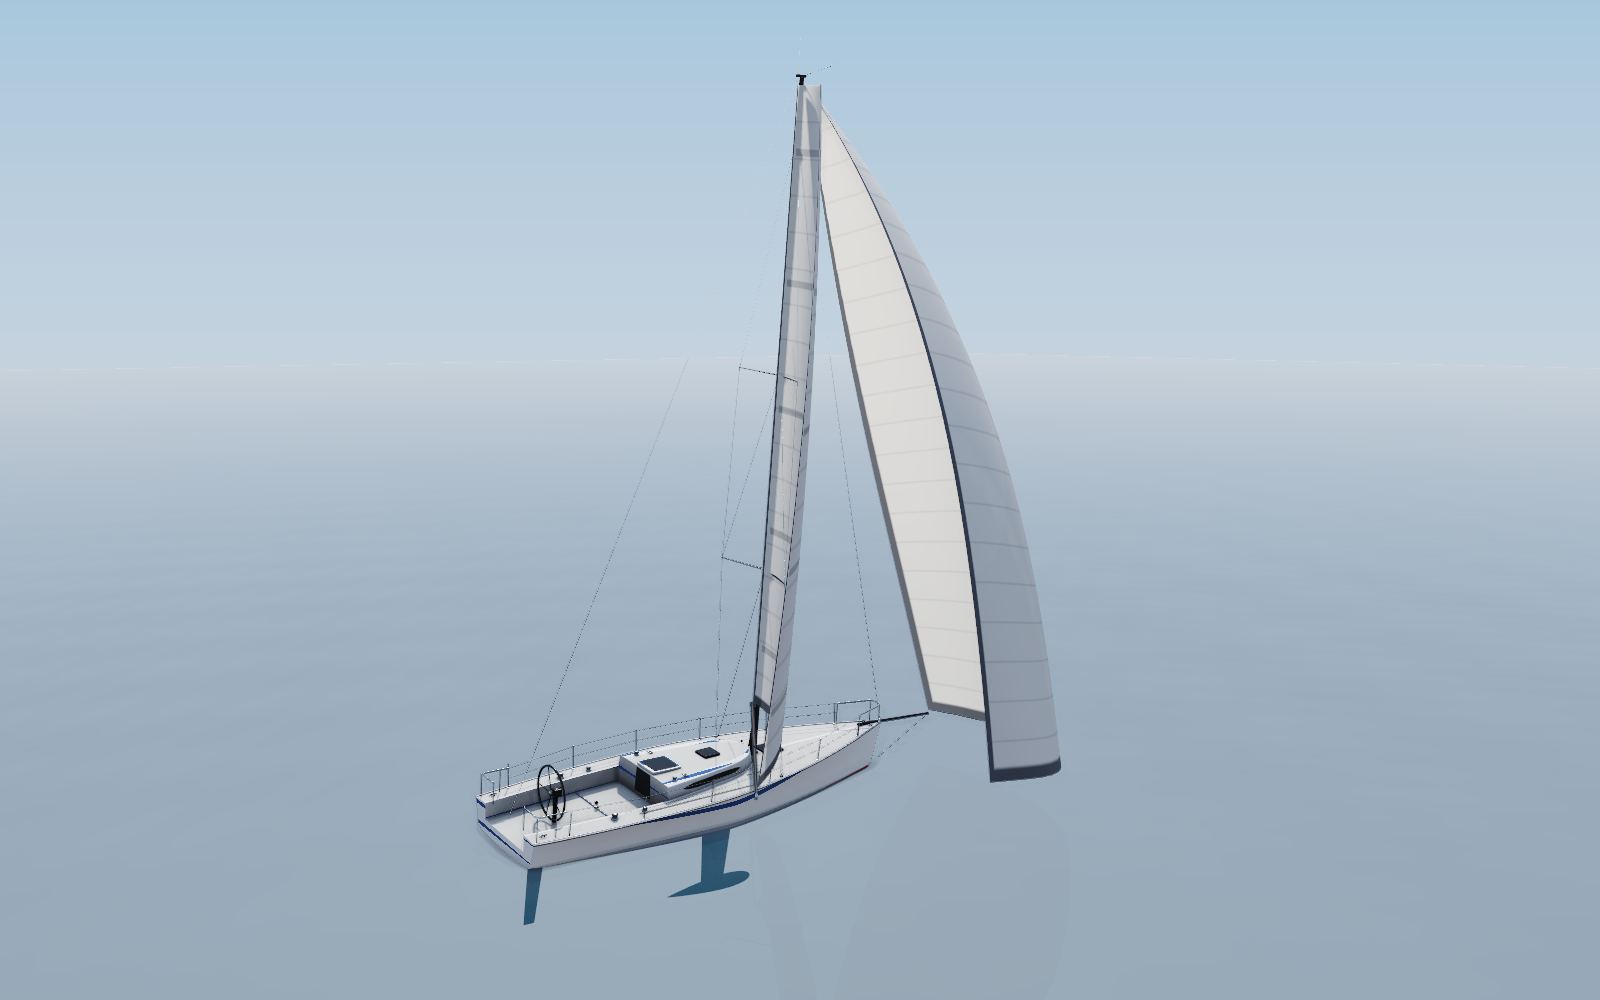
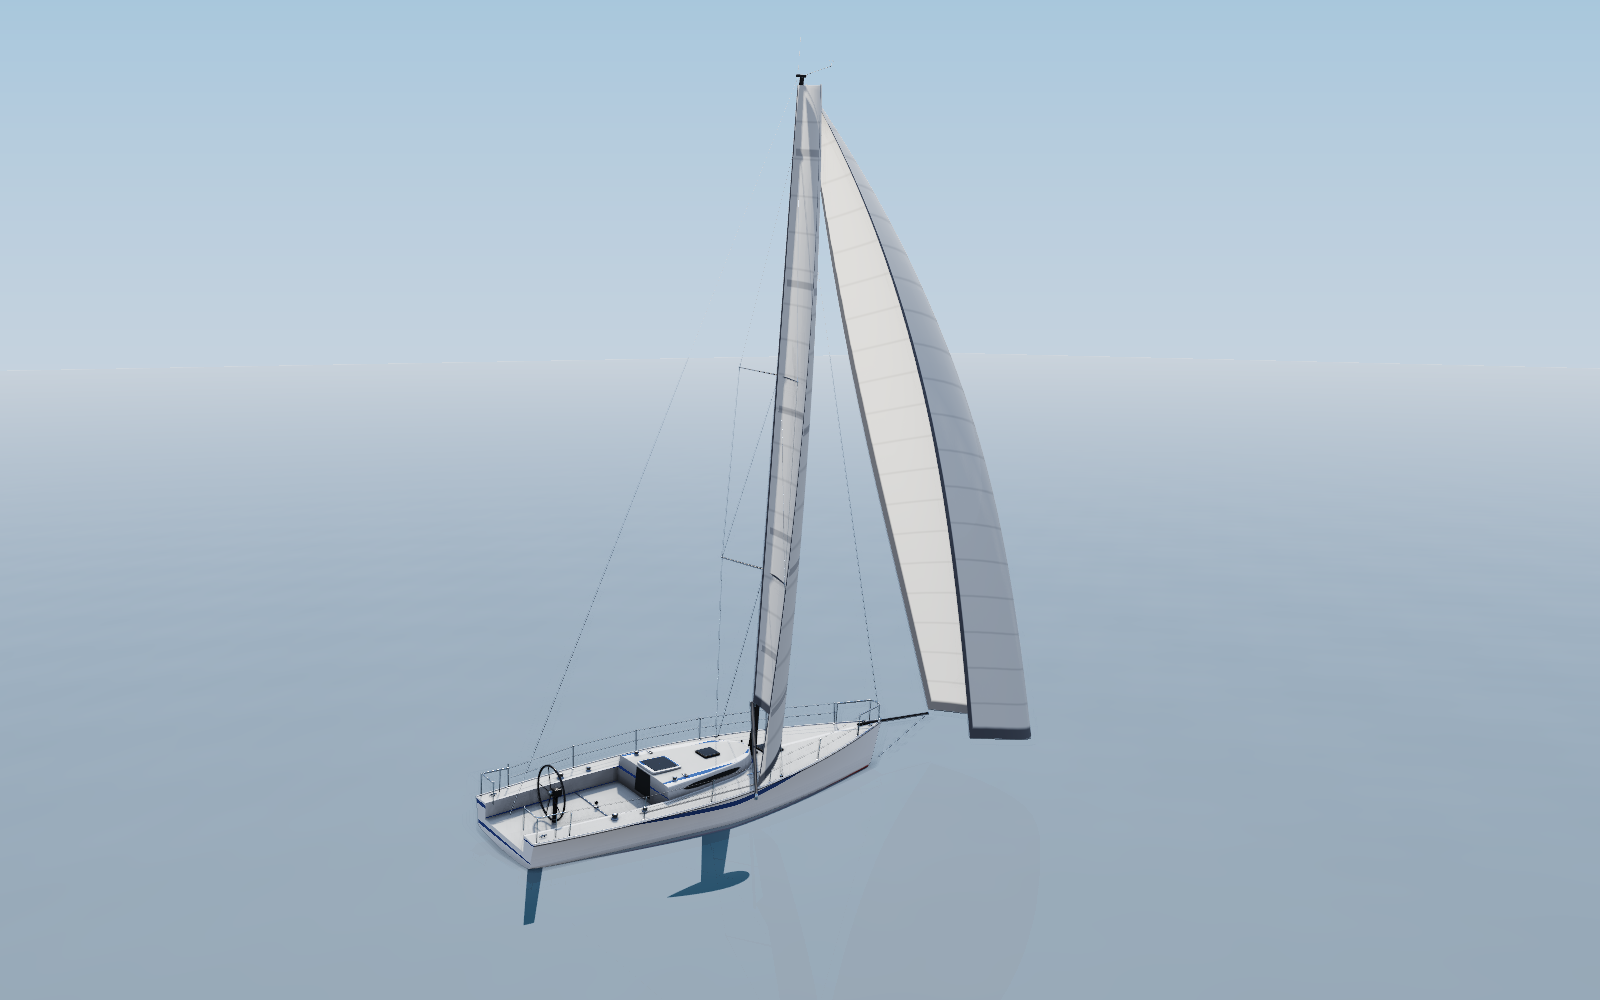
[feature] Boatgen: kites drawn from standard proportions, class areas follow
- code zero, asym and sym spinnaker planforms from the rig (data_format.md 3.5)
- rule area reported in the sidecar; build warns when the class area is off
- wm7 kite 43 m2, wm12 a2 126 m2, code0 81 m2, test_sym fixture 111 m2
- downwind previews regenerated

Changed region(s): [[0.5312, 0.155, 0.6875, 0.806], [0.5, 0.124, 0.5312, 0.155]]

diff --git a/tools/boatgen/boatgen/sails.py b/tools/boatgen/boatgen/sails.py
@@ -2,7 +2,9 @@
 
 Each sail is a Coons patch over its four edges (foot, leech, head, luff), sampled on a regular (chord x height)
 grid so the simulation can deform it at run time; corner indices and grid size go into the physics sidecar.
-Edge curvature (mainsail roach, spinnaker edge round) is sized so the flat outline area matches the class area.
+Mainsail roach and headsail leech round are sized so the flat outline area matches the class area; code zeros and
+spinnakers are drawn from the rig with standard proportions (docs/specs/data_format.md 3.5) and report their rule
+area instead.
 
 Two layers: the port-facing layer sits 1 mm to port, the starboard one 1 mm to starboard, each with its own
 outward normal. uv0 is metric (chord metres, height metres) for tiling cloth; uv1 is (chord fraction, 1 - height
@@ -74,6 +76,7 @@ class Sail:
     def __init__(self, name, P, corners):
         self.name, self.P, self.corners = name, P, corners  # P: (nv, nu, 3) in the centreline plane
         self.look_override = {}
+        self.measure = None        # flying sails: rule measurements (flying_measure)
 
     @property
     def area(self):
@@ -258,11 +261,41 @@ def _headsail(spec, cls, rig, deck):
     return Sail(spec["id"], make(b), {"tack": (0, 0), "clew": (0, nu - 1), "head": (nv - 1, 0)})
 
 
+# flying-sail planform (docs/specs/data_format.md 3.5): leech / luff, foot / luff, mid girth / foot, then the
+# drawing: foot round (fraction of the foot), the luff's share of the edge round, clew grid (cols, rows)
+FLYING = {
+    "spinnaker_asym": {"leech": 0.88, "foot": 0.56, "mid": 0.76, "foot_round": 0.08, "luff_share": 0.45, "grid": (16, 26)},
+    "spinnaker_sym": {"leech": 1.00, "foot": None, "mid": 0.95, "foot_round": 0.10, "luff_share": 0.50, "grid": (16, 26)},
+    "code_zero": {"leech": 0.90, "foot": 0.46, "mid": 0.56, "foot_round": 0.02, "luff_share": 0.20, "grid": (12, 24)},
+}
+SYM_FOOT_POLE = 1.75      # symmetric spinnaker foot / pole length
+SYM_FOOT_MAX = 0.60       # ... at most this share of the luff
+
+
+def _edge_len(C):
+    return float(np.sum(np.linalg.norm(np.diff(C, axis=0), axis=-1)))
+
+
+def _edge_mid(C):
+    """Point half way along a polyline edge."""
+    s = np.r_[0.0, np.cumsum(np.linalg.norm(np.diff(C, axis=0), axis=-1))]
+    return np.array([np.interp(0.5 * s[-1], s, C[:, k]) for k in range(3)])
+
+
+def flying_measure(P):
+    """Rule measurements of a flat code zero or spinnaker grid: luff, leech and foot along the edges, mid girth
+    between the mid points of the luff and leech edges, and the rule area (SLU + SLE) / 2 * (SF + 4 SHW) / 6."""
+    luff, leech, foot = _edge_len(P[:, 0]), _edge_len(P[:, -1]), _edge_len(P[0, :])
+    mid = float(np.linalg.norm(_edge_mid(P[:, 0]) - _edge_mid(P[:, -1])))
+    return {"luff": luff, "leech": leech, "foot": foot, "mid_girth": mid,
+            "rule_area": 0.5 * (luff + leech) * (foot + 4 * mid) / 6}
+
+
 def _flying(spec, cls, rig, deck):
     """Code zero and spinnakers, flat in the centreline plane: tacked at the sprit end (asymmetric, code zero) or
-    at the pole end (symmetric, or asymmetric on a class with a pole and no sprit), hoisted to the masthead. Edge
-    round is part of the flat outline area."""
-    L = cls["hull"]["loa"]
+    at the pole end (symmetric, or asymmetric on a class with a pole and no sprit), hoisted to the masthead. The
+    planform follows the standard proportions of docs/specs/data_format.md 3.5 from the rig; the class area is
+    not imposed (it should be the rule area this gives, which the sidecar reports)."""
     t = spec["type"]
     if t.startswith("spinnaker") and rig.pole_flown:
         tk = rig.pole_end.copy()
@@ -272,27 +305,42 @@ def _flying(spec, cls, rig, deck):
         tk = np.array([rig.x_tack, 0, rig.z_tack + 0.1])
     if spec.get("tack_x") is not None:
         tk[0] = spec["tack_x"]
-    shape = {"code_zero": (1.1, 0.012, 0.03, 0.02, 12, 24),
-             "spinnaker_asym": (1.3, 0.07, 0.10, 0.10, 16, 26),
-             "spinnaker_sym": (1.6, 0.10, 0.10, 0.12, 16, 26)}[t]
-    clew_h, luff_b, leech_b, foot_b, nu, nv = shape
+    pf = FLYING[t]
+    nu, nv = pf["grid"]
     hd = np.array([rig.x_mast + rig.chord / 2 + 0.02, 0, rig.z_top - 0.12])
     if spec.get("luff"):
         hd = tk + normalize(hd - tk) * float(spec["luff"])
     dl = hd - tk
-    luff = np.linalg.norm(dl)
-    dd = normalize(dl)
+    luff = float(np.linalg.norm(dl))
+    dd = dl / luff
     n_aft = np.array([dd[2], 0, -dd[0]])
     if n_aft[0] > 0:
         n_aft = -n_aft
-    z_c = float(deck.deck_z(rig.x_mast, 0)) + clew_h * (L / 12) ** 0.5
-    if t == "spinnaker_sym":
-        leech_b = luff_b
+    if pf["foot"] is None:
+        foot = min(SYM_FOOT_POLE * rig.pole_len, SYM_FOOT_MAX * luff) if rig.pole_len > 0 else SYM_FOOT_MAX * luff
+    else:
+        foot = pf["foot"] * luff
+    foot = float(spec.get("foot") or foot)
+    leech = float(spec.get("leech") or pf["leech"] * luff)
+    # clew: foot from the tack, leech from the head, aft of the luff line
+    a = (foot * foot - leech * leech + luff * luff) / (2 * luff)
+    if foot * foot - a * a <= 0:
+        raise ValueError(f"sail {spec['id']}: luff {luff:.2f}, leech {leech:.2f} and foot {foot:.2f} make no triangle")
+    ck = tk + a * dd + np.sqrt(foot * foot - a * a) * n_aft
+    share = pf["luff_share"]
 
-    def outline(lp):
-        sk = (z_c - tk[2] - lp * n_aft[2]) / dd[2]
-        ck = tk + sk * dd + lp * n_aft
-        return coons(_curve(tk, ck, -foot_b * lp, 1.0, 0.5), _curve(ck, hd, -leech_b * luff, 1.0, 0.45),
-                     _line(hd, hd), _curve(tk, hd, luff_b * luff, 1.0, 0.45), nu, nv)
-    lp = _solve_bulge(outline, spec["area"], 0.2 * luff, 2.0 * luff)
-    return Sail(spec["id"], outline(lp), {"tack": (0, 0), "clew": (0, nu - 1), "head": (nv - 1, 0)})
+    def outline(r):
+        # r: extra mid girth over the straight triangle's foot / 2, split between luff and leech round
+        return coons(_curve(tk, ck, -pf["foot_round"] * foot), _curve(ck, hd, -(1 - share) * r, 1.0, 0.45),
+                     _line(hd, hd), _curve(tk, hd, share * r, 1.0, 0.45), nu, nv)
+    target = pf["mid"] * flying_measure(outline(0.0))["foot"]     # SF along the rounded foot
+    lo, hi = 0.0, 1.5 * foot
+    for _ in range(40):
+        r = 0.5 * (lo + hi)
+        if flying_measure(outline(r))["mid_girth"] < target:
+            lo = r
+        else:
+            hi = r
+    sail = Sail(spec["id"], outline(0.5 * (lo + hi)), {"tack": (0, 0), "clew": (0, nu - 1), "head": (nv - 1, 0)})
+    sail.measure = flying_measure(sail.P)
+    return sail

diff --git a/tools/boatgen/tests/test_kite_planform.py b/tools/boatgen/tests/test_kite_planform.py
@@ -1,0 +1,52 @@
+"""Code zero and spinnaker planforms follow the standard proportions of docs/specs/data_format.md 3.5, and the
+shipped class areas are the rule areas those planforms give.
+
+Run from tools/boatgen: python3 -m unittest discover -s tests
+"""
+import os
+import unittest
+
+import numpy as np
+
+from boatgen import classfile
+from boatgen.build import Boat
+from boatgen.sails import FLYING
+
+HERE = os.path.dirname(os.path.abspath(__file__))
+REPO = os.path.dirname(os.path.dirname(os.path.dirname(HERE)))
+CLASSES = [os.path.join(REPO, "data", "classes", f"{c}.boat.json") for c in ("wm7", "wm12")]
+CLASSES.append(os.path.join(HERE, "fixtures", "test_sym.boat.json"))
+
+
+class KitePlanformTest(unittest.TestCase):
+    @classmethod
+    def setUpClass(cls):
+        np.seterr(all="ignore")
+        cls.boats = [Boat(classfile.load(p), log=lambda *a: None) for p in CLASSES]
+
+    def test_proportions_and_area(self):
+        n = 0
+        for b in self.boats:
+            for spec in b.cls["sails"]:
+                s = b.sails[spec["id"]]
+                if s.type not in FLYING:
+                    continue
+                n += 1
+                with self.subTest(boat=b.cls["id"], sail=spec["id"]):
+                    m, pf = s.measure, FLYING[s.type]
+                    straight = np.linalg.norm(s.P[-1, 0] - s.P[0, 0])
+                    self.assertAlmostEqual(np.linalg.norm(s.P[-1, -1] - s.P[0, -1]) / straight, pf["leech"], 2)
+                    if pf["foot"] is not None:
+                        self.assertAlmostEqual(np.linalg.norm(s.P[0, -1] - s.P[0, 0]) / straight, pf["foot"], 2)
+                    self.assertAlmostEqual(m["mid_girth"] / m["foot"], pf["mid"], 2)
+                    # class area: the rule area rounded down to 0.5 m2
+                    self.assertLessEqual(spec["area"], m["rule_area"])
+                    self.assertGreater(spec["area"], m["rule_area"] - 0.5)
+                    # the clew is well inside the hull length, not behind the transom
+                    x_clew = s.P[0, -1][0]            # measured forward from the transom
+                    self.assertGreater(x_clew, 0.2 * b.hull.L)
+        self.assertEqual(n, 4)
+
+
+if __name__ == "__main__":
+    unittest.main()

diff --git a/tools/boatgen/boatgen/build.py b/tools/boatgen/boatgen/build.py
@@ -70,6 +70,15 @@ class Boat:
         self.parts["rudder"] = self.app.rudder_part()
         self.rig = Rig(cls, self.hull, self.deck)
         self.sails = build_sails(cls, self.rig, self.deck)
+        for spec in cls["sails"]:
+            m = self.sails[spec["id"]].measure
+            if m:
+                msg = (f"  sail {spec['id']}: luff {m['luff']:.2f}, leech {m['leech']:.2f}, foot {m['foot']:.2f}, "
+                       f"mid girth {m['mid_girth']:.2f} m, rule area {m['rule_area']:.1f} m2 (class {spec['area']:.1f})")
+                self.log(msg)
+                if abs(spec["area"] - m["rule_area"]) > 0.03 * m["rule_area"]:
+                    print(f"warning: {cls['id']} sail {spec['id']}: class area {spec['area']:.1f} m2 is not the "
+                          f"planform's rule area {m['rule_area']:.1f} m2 (data_format.md 3.5)")
         heads = [sl for sl in self.sails.values() if sl.type in ("jib", "genoa")]
         if heads:
             self.rig.jib_clew = heads[0].P[0, -1]

diff --git a/tools/boatgen/boatgen/physics.py b/tools/boatgen/boatgen/physics.py
@@ -234,6 +234,10 @@ def sail_data(boat):
                                      "u mirrored on the starboard layer, plus the layer side (port layer on +y)",
                      "area_m2": _r(s.area, 3), "area_target_m2": target, "centroid": _r(to_body(s.centroid()[None], ox)[0], 4),
                      "corners": corners, "look": s.look(boat.hull.L)}
+        if s.measure:
+            out[name]["rule"] = {"luff": _r(s.measure["luff"], 3), "leech": _r(s.measure["leech"], 3),
+                                 "foot": _r(s.measure["foot"], 3), "mid_girth": _r(s.measure["mid_girth"], 3),
+                                 "area_m2": _r(s.measure["rule_area"], 2)}
     return out
 
 

diff --git a/tools/boatgen/README.md b/tools/boatgen/README.md
@@ -80,8 +80,25 @@ How the generator reads a few of them:
 - `lcb_x` is the LCB target (default 53.5 % LWL aft of the forward end when absent).
 - `max_beam_station` and `bow_fineness` shape the sheer plan view with the rule of `collisions.md` §2.1, so the
   2-D collision outline and the 3-D deck edge agree.
-- `sails[].area` is matched exactly by the flat outline (mainsail roach, headsail clew position, spinnaker
-  width). `luff` and `tack_x` override the rig-derived values when given; `leech` and `foot` are not used yet.
+- `sails[].area` of the main and headsails is matched exactly by the flat outline (mainsail roach, headsail clew
+  position). `luff` and `tack_x` override the rig-derived values when given.
+- Code zeros and spinnakers are **not** stretched to the class area: they are drawn from the rig with the standard
+  proportions of `docs/specs/data_format.md` §3.5, and the class area should be the rule area that planform gives
+  (the build logs the measurements and warns when the class area is more than 3 % off). The rule:
+
+  | type | tack | leech | foot | mid girth | edge round (luff share) |
+  | --- | --- | --- | --- | --- | --- |
+  | `spinnaker_asym` | sprit end | 0.88 luff | 0.56 luff | 0.76 foot | 45 % |
+  | `spinnaker_sym` | pole end | = luff | 1.75 pole, at most 0.6 luff | 0.95 foot | 50 % |
+  | `code_zero` | sprit end | 0.90 luff | 0.46 luff | 0.56 foot | 20 % |
+
+  The luff is the straight line from the tack to the halyard point (0.12 m below the masthead at the mast front);
+  the clew is where the foot from the tack meets the leech from the head. The luff and leech are then bowed
+  outward (split by the luff share) until the mid girth, between the mid points of the luff and leech edges,
+  reaches its value; the foot has a fixed round (asym 8 %, sym 10 %, code zero 2 % of the foot). Rule area
+  `(SLU + SLE) / 2 · (SF + 4 · SHW) / 6` with the edges measured along the curves, as the sidecar's
+  `sails.<id>.rule` reports. `luff`, `leech` and `foot` in the class file override the proportions. The clew comes
+  out about a third of the hull length forward of the transom, so the set kite's clew flies abreast the cockpit.
 
 ### `visual` block (generator only, opaque to the core and the VPP)
 
@@ -247,7 +264,7 @@ Positions in the body frame.
 | `buoyancy_samples` | skin samples up to the sheer with outward normal and area, for pressure integration at any heel and trim (`canoe_volume_check_m3` is their immersed volume by the divergence theorem) |
 | `collision_meshes` | closed low-poly hull (canoe body to the deck crown), fin, bulb and rudder slabs |
 | `rig` | mast step, masthead, hounds, forestay tack, boom pivot and axis, sprit end, rudder stock and axis, wheel hub, spreader tips; with a pole: `pole_pivot`, `pole_axis`, `pole_length` (from the mast front) and `pole_end` (rest position, the spinnaker tack) |
-| `sails` | per sail: node, type, grid size, vertex order, flat area and target, centroid, corner vertices (tack, clew, head), `look` (the look parameters above, every applicable key filled) |
+| `sails` | per sail: node, type, grid size, vertex order, flat area and target, centroid, corner vertices (tack, clew, head), `look` (the look parameters above, every applicable key filled); code zeros and spinnakers also `rule` (luff, leech, foot, mid girth and rule area of the planform) |
 
 ## Limits and next steps
 
@@ -260,4 +277,5 @@ Positions in the body frame.
 - One LOD. The model is about 50 to 60 k triangles; a game needs two or three LODs (fewer stations, hardware
   dropped or merged) and a draw-call budget per boat.
 - Multihulls are not supported (one canoe body, one keel).
-- `sails[].leech` and `foot` are not used; the hull fit leaves Cm as an outcome (see above).
+- `sails[].leech` and `foot` are used for code zeros and spinnakers only; the hull fit leaves Cm as an outcome
+  (see above).

diff --git a/docs/specs/data_format.md b/docs/specs/data_format.md
@@ -111,13 +111,35 @@ An array; exactly one entry of type `main`, any number of front sails. Its order
 | `id` | R | – | unique id (e.g. `main`, `jib`, `a2`) |
 | `type` | R | – | `main`, `jib`, `genoa`, `code_zero`, `spinnaker_sym`, `spinnaker_asym` (`sails.md` §1) |
 | `area` | R | m² | sail area (spinnakers: the rule area) |
-| `luff`, `leech`, `foot` | | m | edge lengths [from the rig and the area] |
+| `luff`, `leech`, `foot` | | m | edge lengths [main and headsails: from the rig and the area; flying sails: from the rig, below] |
 | `tack_x` | | m | body x of the tack [from the rig: mast for the main, forestay for jibs, sprit or pole] |
 | `furling` | | bool | headsail on a furler (hoist animation, and faster handling) [false] |
 | `handling` | | object | overrides of the handling block the VPP writes (§4.4) |
 
 Sail areas of the main, jib, genoa, code zero and spinnakers (symmetric or asymmetric) are `sails[].area` with the
 matching `type`.
+
+**Flying-sail planform.** A code zero or spinnaker is drawn from the rig with standard proportions, and its `area`
+is the rule area of that planform (the class file takes the value the generator reports, rounded down to 0.5 m²;
+the generator warns when they differ by more than 3 %). The corners, in the centreline plane:
+
+- **tack**: the sprit end (code zero, asymmetric spinnaker), or the pole end one pole length ahead of the mast front
+  (symmetric spinnaker, or an asymmetric one on a class with a pole and no sprit); `tack_x` moves it;
+- **head**: the halyard point, just below the masthead at the mast front;
+- **luff** `SLU` = the straight tack-to-head distance (`luff` shortens it along the same line);
+- **clew**: `foot` `SF` from the tack and `leech` `SLE` from the head, aft of the luff line.
+
+| type | `SLE` | `SF` | mid girth `SHW` |
+| --- | --- | --- | --- |
+| `spinnaker_asym` | 0.88 `SLU` | 0.56 `SLU` | 0.76 `SF` (just over the 0.75 `SF` spinnaker line) |
+| `spinnaker_sym` | `SLU` (equal luffs) | 1.75 × pole length, at most 0.6 `SLU` | 0.95 `SF` |
+| `code_zero` | 0.90 `SLU` | 0.46 `SLU` | 0.56 `SF` (below the 0.75 `SF` spinnaker line: flatter and narrower) |
+
+`leech` and `foot` in the class file override the table. The edges are rounded (luff and leech outward, foot
+downward) so the mid girth, measured between the mid points of the luff and leech edges, hits `SHW`. The rule area
+is `(SLU + SLE) / 2 · (SF + 4 · SHW) / 6` with `SLU`, `SLE`, `SF` measured along the rounded edges. With these
+proportions the clew sits about a third of the hull length forward of the transom on the flat sail, so set it flies
+abreast the cockpit and the sheet leads aft to the quarter.
 
 ### 3.6 `crew`
 

diff --git a/backlog/tasks/wm-059 - Boats-spinnaker-planform-and-size.md b/backlog/tasks/wm-059 - Boats-spinnaker-planform-and-size.md
@@ -1,9 +1,11 @@
 ---
 id: WM-059
 title: 'Boats: spinnaker planform and size'
-status: To Do
-assignee: []
+status: In Progress
+assignee:
+  - '@claude'
 created_date: '2026-09-25 20:42'
+updated_date: '2026-09-25 21:10'
 labels:
   - boats
 dependencies: []
@@ -19,7 +21,13 @@ Owner after the first races (2026-09-25): the gennakers and spinnakers are far t
 
 ## Acceptance Criteria
 <!-- AC:BEGIN -->
-- [ ] #1 Kite planforms follow standard proportions; clew near the transom
+- [x] #1 Kite planforms follow standard proportions; clew near the transom
 - [ ] #2 wm7 and wm12 kite areas reduced to what the planform gives; data/perf regenerated
 - [ ] #3 Owner looks at the new kites and they no longer look huge
 <!-- AC:END -->
+
+## Implementation Notes
+
+<!-- SECTION:NOTES:BEGIN -->
+Planform rule in docs/specs/data_format.md 3.5 and tools/boatgen/README.md. Class areas now the planform's rule area rounded down to 0.5 m2: wm7 kite 60 -> 43.0, wm12 a2 150 -> 126.0, code0 82 -> 81.0. AC2: class areas done on branch kites; data/perf still to be regenerated after the feel branch merges (coordinator).
+<!-- SECTION:NOTES:END -->
